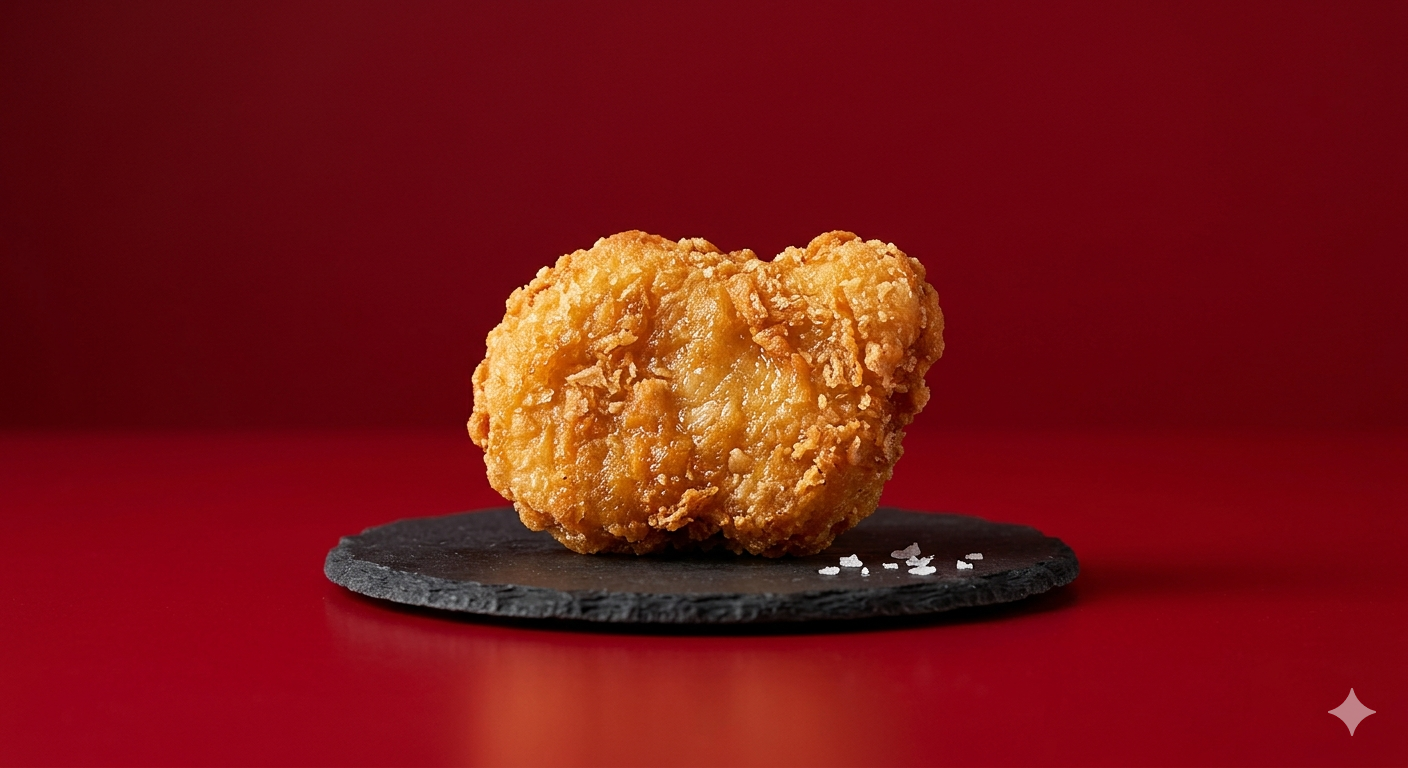
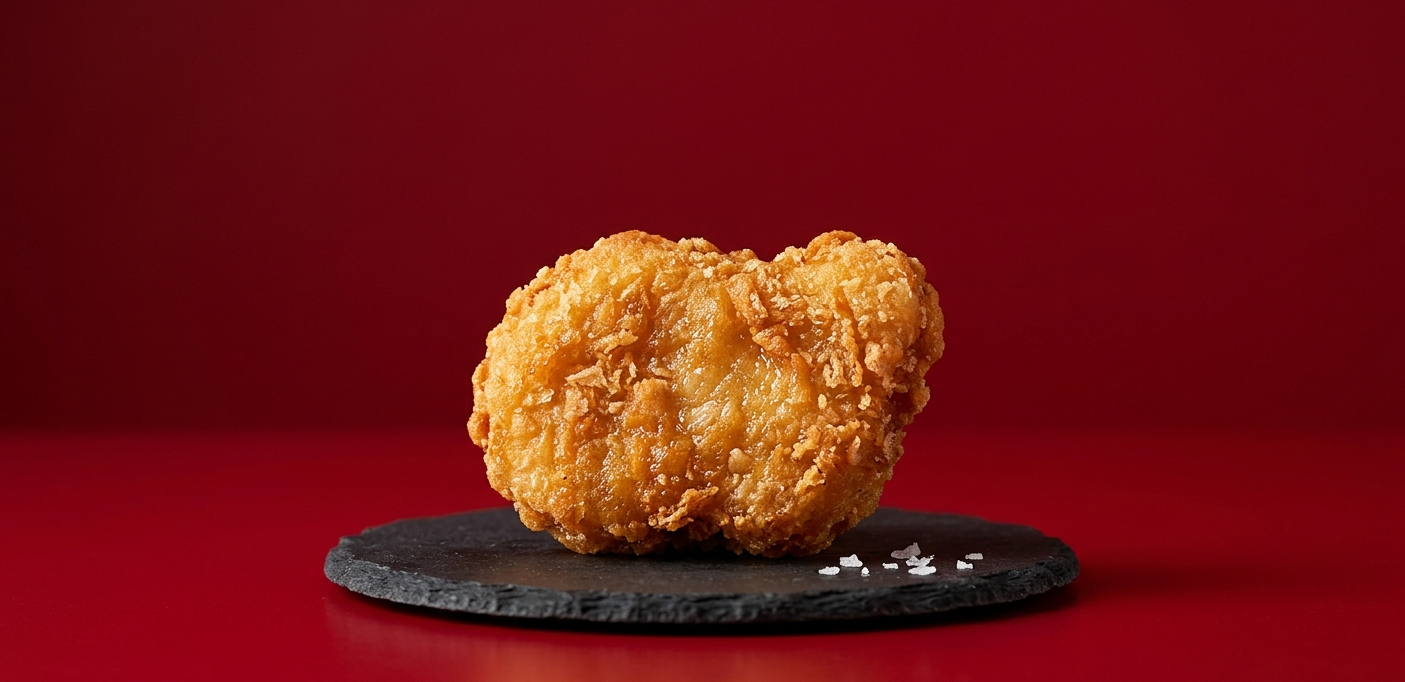
add nugget and restaurant images and new content for home page

Changed region(s): [[0.0, 0.2771, 0.9181, 0.9853], [0.9488, 0.893, 0.9794, 0.9545]]

diff --git a/src/template.html b/src/template.html
@@ -18,18 +18,16 @@
         </nav>
     </header>
     <div id="content">
-        <div class="headline">
-            <div class="heading-wrapper">
-                <div class="heading-border"></div>
-                <div class="heading-content">
-                    <h1>Home</h1>
-                </div>
+        <div class="heading-wrapper">
+            <div class="heading-border"></div>
+            <div class="heading-content">
+                <h1>Home</h1>
             </div>
-            <div class="gordon-images">
-                <div class="gordon-left"></div>
-                <div class="giant-logo"></div>
-                <div class="gordon-right"></div>
-            </div>
+        </div>
+        <div class="gordon-images">
+            <div class="gordon-left"></div>
+            <div class="giant-logo"></div>
+            <div class="gordon-right"></div>
         </div>
         <div class="introduction">
             <p>
@@ -41,6 +39,89 @@
                 featured in my shows and other restaurants. While you're here, you might even meet world-renowned chefs 
                 or former contestants that now work at our kitchen. If you're lucky, you may even catch me stopping by too!
             </p>
+        </div>
+        <div class="menu-container">
+            <div class="chicken-nugget-image"></div>
+            <div class="main">
+                <p>
+                    As I mentioned earlier, we have a variety of food options. Take a look at them in our online menu!
+                </p>
+                <button id="menu">Explore Menu</button>
+            </div>
+        </div>
+        <div class="hours">
+            <div class="main">
+                <h1>Hours</h1>
+                <table>
+                    <tr>
+                        <th>Day</th>
+                        <th>Available Hours</th>
+                    </tr>
+                    <tr>
+                        <td>Sunday</td>
+                        <td>8am - 6pm</td>
+                    </tr>
+                    <tr>
+                        <td>Monday</td>
+                        <td>6am - 10pm</td>
+                    </tr>
+                    <tr>
+                        <td>Tuesday</td>
+                        <td>6am - 10pm</td>
+                    </tr>
+                    <tr>
+                        <td>Wednesday</td>
+                        <td>6am - 10pm</td>
+                    </tr>
+                    <tr>
+                        <td>Thursday</td>
+                        <td>6am - 10pm</td>
+                    </tr>
+                    <tr>
+                        <td>Friday</td>
+                        <td>6am - 6pm</td>
+                    </tr>
+                    <tr>
+                        <td>Saturday</td>
+                        <td>8am - 6pm</td>
+                    </tr>
+                </table>
+            </div>
+            <div class="restaurant"></div>
+        </div>
+        <div class="reviews">
+            <div class="review-one">
+                <div class="profile-pic"></div>
+                <div class="review-content">
+                    <p><i>
+                        The Wellington burgers were SOOOO good! Thankfully they weren't raw.
+                    </i></p>
+                </div>
+            </div>
+            <div class="review-two">
+                <div class="profile-pic"></div>
+                <div class="review-content">
+                    <p><i>
+                        The staff were friendly and the food was served quickly. 
+                        I've never seen a fast-food restaurant with service this fast!
+                    </i></p>
+                </div>
+            </div>
+            <div class="review-three">
+                <div class="profile-pic"></div>
+                <div class="review-content">
+                    I brought my son here just for a quick lunch, and luckily Gordon Ramsay was there.
+                    My son was so happy to see him! Gordon and the staff were very caring and ensured we had a great time there.
+                </div>
+            </div>
+        </div>
+        <div class="outro=container">
+            <div class="dialogue">
+                <p>
+                    WHAT ARE YOU WAITING FOR!? Come by GRN @ 700 Boylston St Boston, MA 02116.
+                    If you have any questions or comments, feel free to contact me <a>here</a>!
+                </p>
+            </div>
         </div>
     </div>
 </body>

diff --git a/src/home.css b/src/home.css
@@ -102,12 +102,12 @@ button:hover {
   background-color: var(--secondary-background-color);
 }
 
-.headline {
+#content {
+  margin-top: 50px;
   display: flex;
   flex-direction: column;
   align-items: center;
-  gap: 20px;
-  margin-top: 20px;
+  gap: 50px;
 }
 
 .heading-wrapper {
@@ -177,5 +177,30 @@ button:hover {
   height: auto;
   min-height: 200px;
   padding: 20px;
-  text-align: center;
+}
+
+.menu-container {
+  background-color: var(--primary-background-color);
+  color: var(--secondary-color);
+  display: flex;
+}
+
+.chicken-nugget-image {
+  background-image: url('assets/nugget.png');
+  background-size: cover;
+  background-position: center;
+  width: 600px;
+  height: 300px;
+}
+
+.hours {
+  background-color: var(--secondary-color);
+  display: flex;
+}
+.restaurant {
+  background-image: url('assets/restaurant.png');
+  background-size: cover;
+  background-position: center;
+  width: 1000px;
+  height: 1000px;
 }
